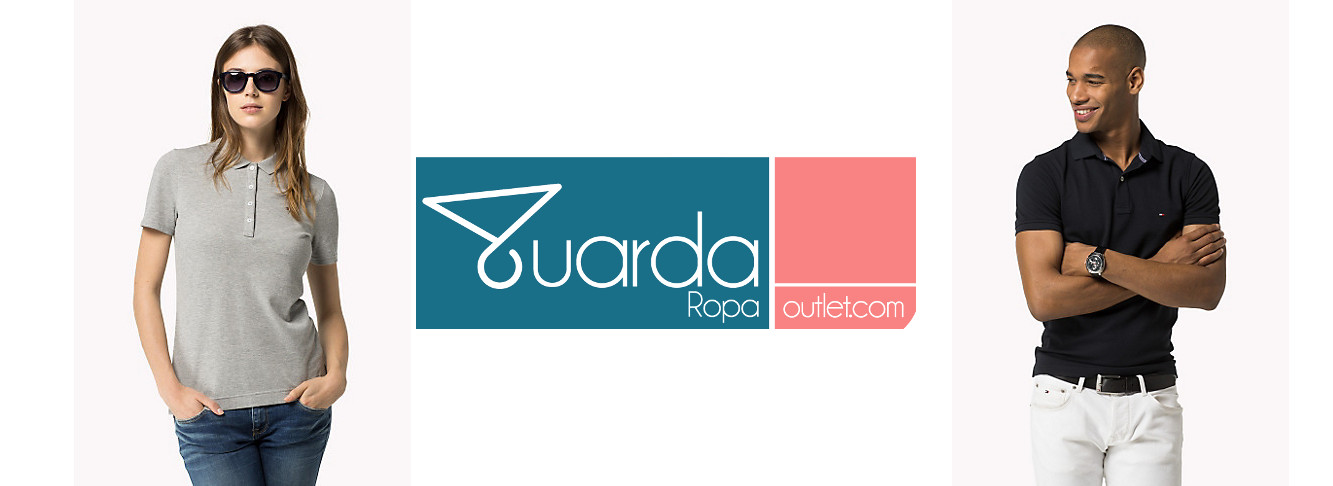
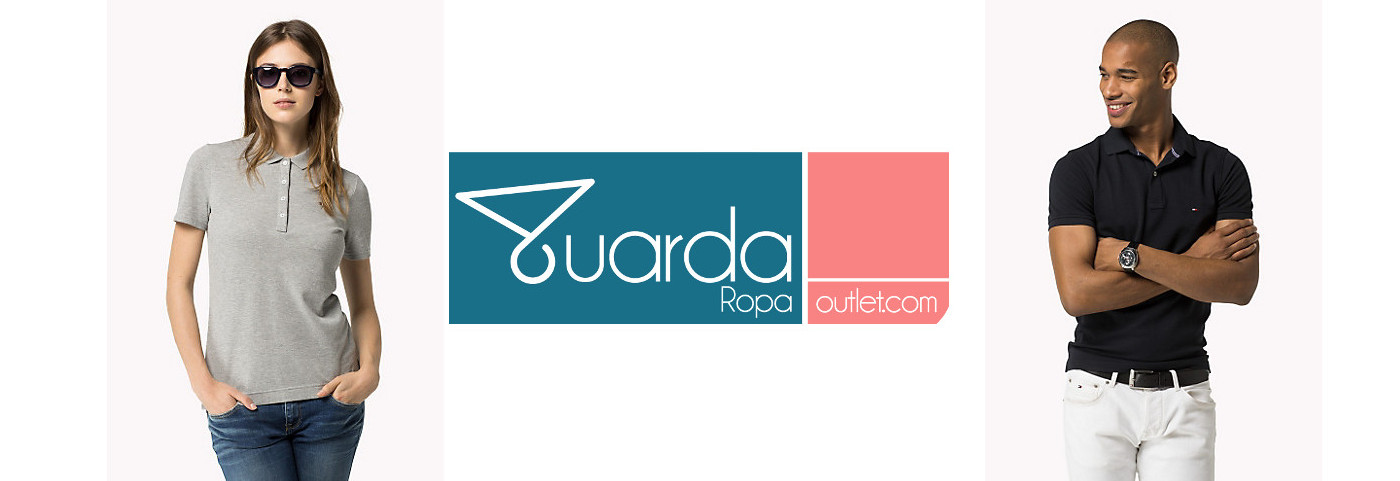
final
final

Changed region(s): [[0.0923, 0.0312, 0.2768, 1.0], [0.7382, 0.0312, 0.9227, 1.0], [0.3076, 0.3119, 0.7074, 0.6861]]

diff --git a/guardaropaoutlet.html b/guardaropaoutlet.html
@@ -82,7 +82,7 @@
             </div>            
         </div>
     </header>
-    <div id="main" role="main" style="margin:0 auto;max-width:1222px;box-shadow:0 0 35px rgba(0,0,0,.4);">
+    <div id="main" role="main" style="margin:0 auto;max-width:1400px;box-shadow:0 0 35px rgba(0,0,0,.4);">
         <section class="slider">
             <div class="flexslider">
                 <ul class="slides">
